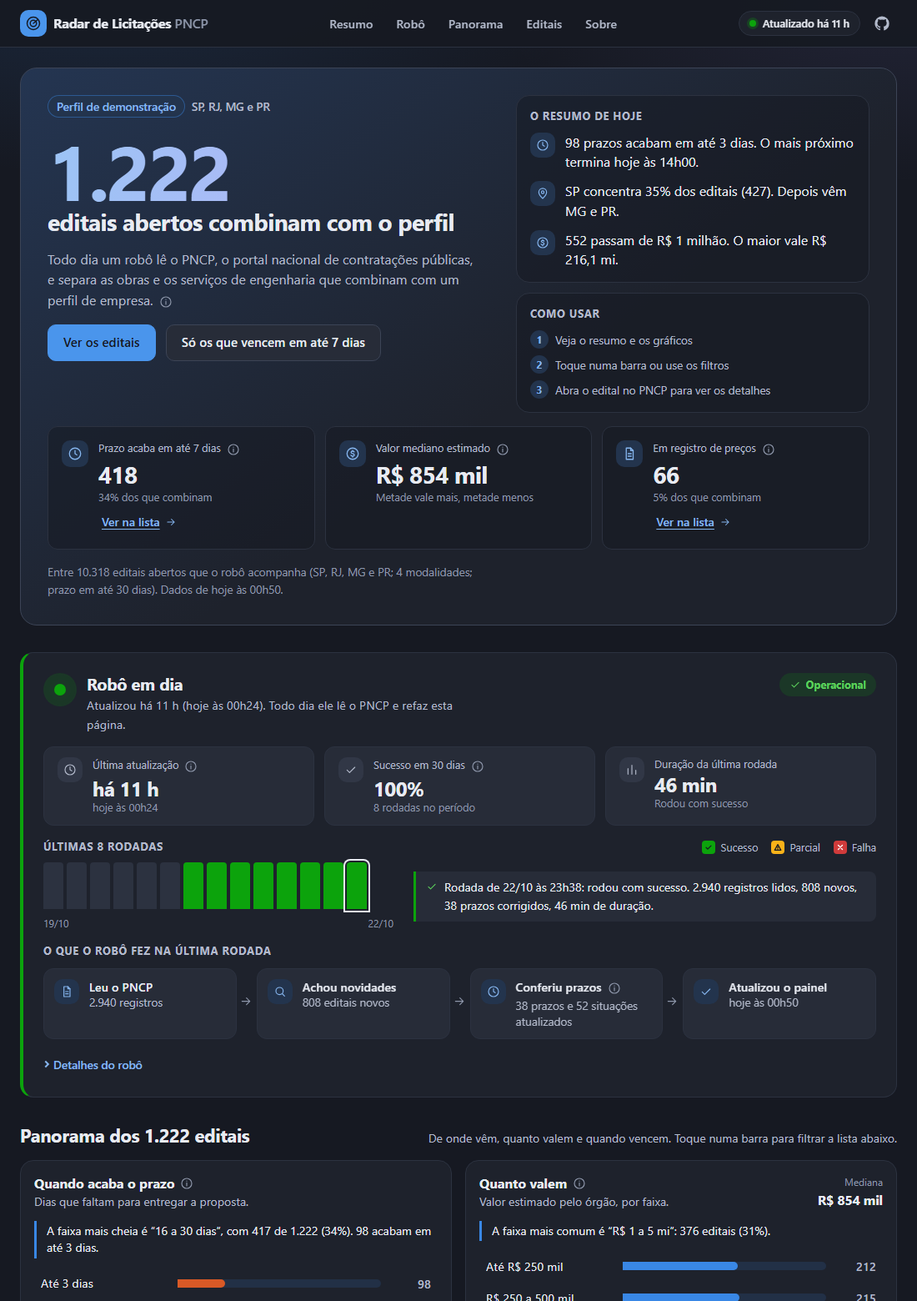
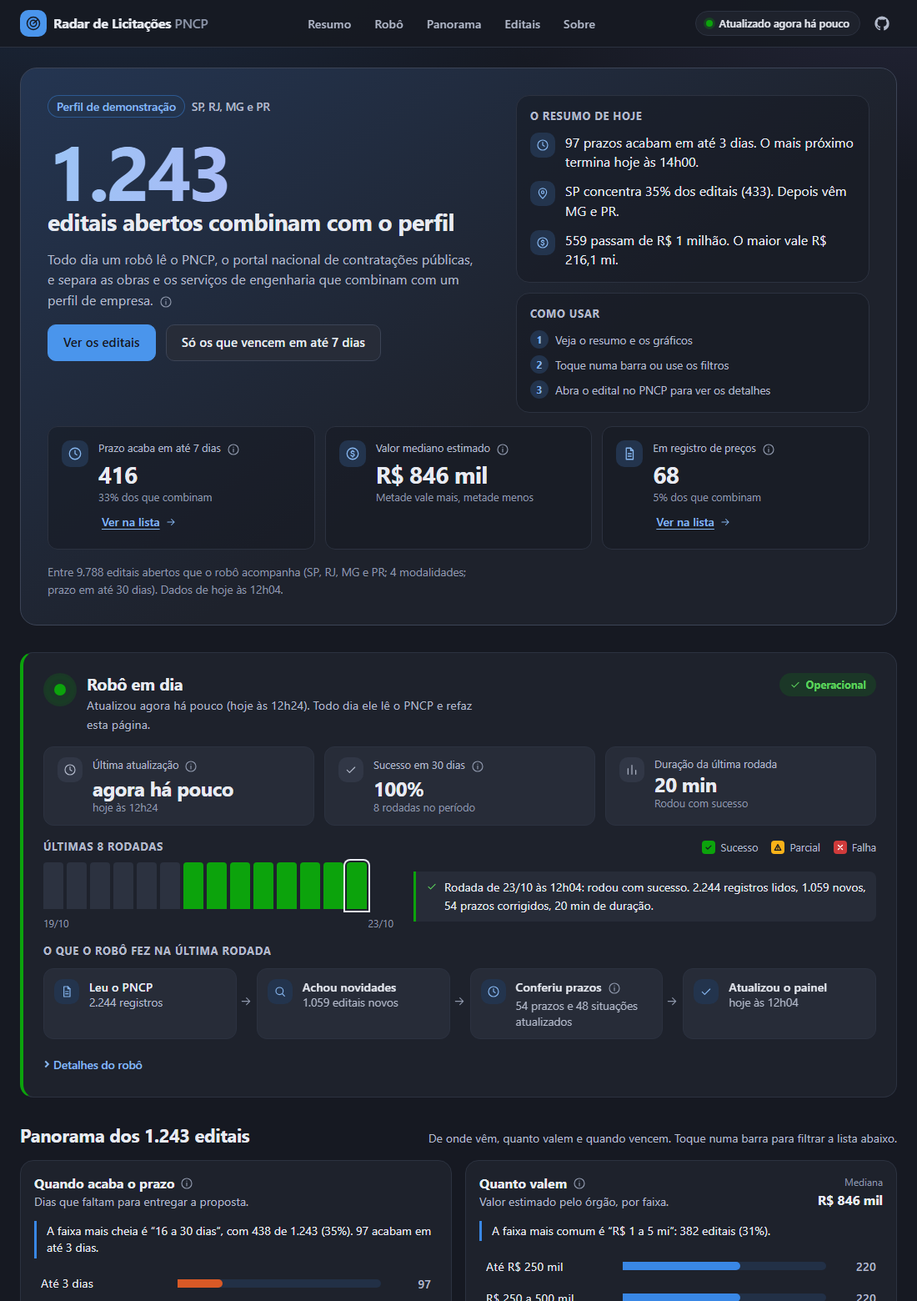
docs: README no molde dos outros projetos, com botão do dashboard e decisões em primeira pessoa
- Topo no padrão do portfólio: print, título com a stack, selos e botão "ABRIR DASHBOARD"
  (GitHub Pages), links de LinkedIn e Portfolio; seções Resumo, O Que Ele Responde, Seções do
  Painel, Preview e rodapé; detalhes técnicos e problemas continuam em seções que abrem
- As decisões e o que foi feito para resolver cada problema passam a estar escritos como do
  autor; sai a frase que atribuía o julgamento da amostra a outra pessoa
- Resultado com os números da rodada de 23/10 (a primeira com a conferência diária):
  2.244 lidos, 1.059 novos, 20 min, 228 chamadas, nenhum 429
- Fluxo completo conferido contra o código: a conferência dos que vencem logo vem antes do
  Telegram; registrar e gerar os arquivos acontece mesmo quando algo falha; a publicação na
  branch data é um passo próprio; a conferência de domingo não manda Telegram; o alerta de
  falha sai depois da publicação
- Fotos novas tiradas da página no ar (resumo, robô, panorama, lista com filtros e celular)

diff --git a/README.md b/README.md
@@ -1,29 +1,59 @@
-# Radar de Licitações PNCP
+<div align="center">
+<img src="./docs/img/painel.png" width="100%" alt="Radar de Licitações PNCP: resumo do dia, painel de status do robô e lista de editais com filtros">
+</div>
 
-> Todo dia, um robô lê as licitações novas do governo, separa as que combinam com o perfil de uma empresa e avisa no Telegram. Os editais também ficam num painel público, com filtros.
+<div align="center">
+
+# 📡 Radar de Licitações PNCP
+
+**Robô agendado que lê o PNCP todo dia, separa as obras e os serviços de engenharia que combinam com o perfil de uma empresa,
+avisa no Telegram e alimenta um painel público com busca e filtros.**
+Python + GitHub Actions + React, sem servidor e a custo zero.
+
+[![Dashboard Online](https://img.shields.io/badge/GitHub%20Pages-ABRIR%20DASHBOARD-3b82f6?style=for-the-badge&logo=githubpages&logoColor=white)](https://victor-ozores.github.io/Radar-PNCP/)
+[![GitHub](https://img.shields.io/badge/GitHub-Repo-181717?style=for-the-badge&logo=github&logoColor=white)](https://github.com/victor-ozores/Radar-PNCP)
+[![License: MIT](https://img.shields.io/badge/License-MIT-94a3b8?style=for-the-badge)](./LICENSE)
 
 [![CI](https://github.com/victor-ozores/Radar-PNCP/actions/workflows/ci.yml/badge.svg)](https://github.com/victor-ozores/Radar-PNCP/actions/workflows/ci.yml)
 [![Pipeline diário](https://github.com/victor-ozores/Radar-PNCP/actions/workflows/daily.yml/badge.svg)](https://github.com/victor-ozores/Radar-PNCP/actions/workflows/daily.yml)
 ![Última execução](https://img.shields.io/endpoint?url=https%3A%2F%2Fraw.githubusercontent.com%2Fvictor-ozores%2FRadar-PNCP%2Fdata%2Fbadge.json)
 ![Custo](https://img.shields.io/badge/custo-R%24%200-brightgreen)
 
-### 👉 [Abrir o painel ao vivo](https://victor-ozores.github.io/Radar-PNCP/)
+[![LinkedIn](https://img.shields.io/badge/LinkedIn-victor--ozores-0A66C2?style=for-the-badge&logo=linkedin&logoColor=white)](https://linkedin.com/in/victor-ozores/)
+[![Portfolio](https://img.shields.io/badge/Portfolio-xperiun-6d28d9?style=for-the-badge&logo=googlechrome&logoColor=white)](https://app.xperiun.com/in/victor-ozores-2)
+[![GitHub](https://img.shields.io/badge/GitHub-victor--ozores-181717?style=for-the-badge&logo=github&logoColor=white)](https://github.com/victor-ozores)
 
-[![Painel do Radar: resumo do dia, painel de status do robô, gráficos e lista de editais com filtros ao lado](docs/img/painel.png)](https://victor-ozores.github.io/Radar-PNCP/)
+</div>
 
-## Para que serve
+---
+
+## 📌 Resumo
 
 O **PNCP** (Portal Nacional de Contratações Públicas) reúne as licitações do país, mas **não avisa ninguém**. Quem monta propostas acaba abrindo vários portais todo dia, ou descobre o edital tarde demais.
 
-O Radar faz essa busca sozinho e entrega:
+O Radar faz essa busca sozinho: um robô agendado lê o PNCP, dá uma nota de 0 a 100 a cada edital, separa os que combinam com o perfil de uma empresa, avisa no Telegram e mantém um painel público com os que ainda estão abertos. Construí o projeto para mostrar, na prática, uma automação agendada de ponta a ponta: roda sozinha todos os dias, sem servidor e sem custo, e **avisa quando para de funcionar**.
 
-* 🆕 **Editais novos que combinam** com o perfil, com nota de 0 a 100 e o motivo da nota;
-* ⏳ **Prazos chegando**: os que ainda dão tempo de montar a proposta;
-* 🔎 **Um painel público** para consultar quando quiser, com busca e filtros.
+**Resultado da execução de 23/10/2026:** 9.788 editais abertos acompanhados em SP, RJ, MG e PR, dos quais 1.317 passaram pelo filtro do perfil (1.243 combinam e 74 combinam só em parte). A rodada leu 2.244 registros do PNCP (1.059 novos) em 20 minutos, conferiu um a um 95 editais com prazo próximo (1 já estava excluído) e não teve nenhum bloqueio da API. Desde 20/10 o robô rodou sozinho 4 vezes (20, 21, 22 e 23/10), todas com sucesso.
 
 > O perfil que vem no projeto é de **demonstração**: uma construtora de médio porte (obras e manutenção predial) em SP, RJ, MG e PR. O painel é um apoio, não uma recomendação: confira sempre o edital no PNCP.
 
-## Como usar
+## 🔗 Ver Dashboard Online
+
+[![GitHub Pages](https://img.shields.io/badge/GitHub%20Pages-ABRIR%20DASHBOARD-3b82f6?style=for-the-badge&logo=githubpages&logoColor=white)](https://victor-ozores.github.io/Radar-PNCP/)
+
+Abre direto, sem login. A página não tem servidor: ela lê o arquivo que o robô grava a cada execução.
+
+---
+
+## 💡 O Que Ele Responde
+
+* Quais editais abertos **combinam com o perfil** e quais olhar primeiro (nota de 0 a 100, com o motivo da nota)?
+* Quais **vencem esta semana** e ainda dão tempo de montar a proposta?
+* **Onde estão** (estado e cidade), **quanto valem** e **em que prazo** vencem?
+* O mesmo edital foi publicado duas vezes? O painel mostra uma vez e indica o outro número.
+* **O robô está funcionando?** O painel mostra há quanto tempo atualizou e como foram as últimas rodadas.
+
+## 🧭 Como Usar
 
 | Quero... | Como |
 |---|---|
@@ -31,7 +61,29 @@ O Radar faz essa busca sozinho e entrega:
 | **Receber o resumo no Telegram** | Faça uma cópia do projeto e crie o seu bot (uns 20 minutos, sem custo): [passo a passo](docs/setup-checklist.md). |
 | **Mudar o que o robô procura** | Edite o [`config.yaml`](config.yaml): estados, modalidades, palavras e faixa de valor. Não precisa mexer em código. |
 
-## O que chega no Telegram
+## 📊 Seções do Painel
+
+| Seção | O que mostra |
+|---|---|
+| **Resumo** | Quantos editais abertos combinam com o perfil, o resumo do dia (prazos, estados e valores, escrito a partir dos próprios dados) e atalhos para os que vencem em até 7 dias |
+| **Robô em dia** | Painel de status do robô: se está em dia, há quanto tempo atualizou, taxa de sucesso, uma barra por rodada (as últimas 14) e o que a última rodada fez |
+| **Panorama** | Quatro gráficos que filtram a lista ao toque: prazo, valor, palavras do perfil e onde estão (estados e cidades) |
+| **Editais abertos** | Lista com busca e filtros (estado, prazo, valor, registro de preços). Cada cartão leva ao edital no PNCP |
+| **Antes de usar** | Os avisos que importam (perfil de demonstração, confira no PNCP) e como o painel é calculado |
+
+## 📸 Preview
+
+<div align="center">
+<img src="./docs/img/painel_robo.png" width="100%" alt="Painel de status do robô: selo Operacional, números, barras das últimas rodadas e o que a última rodada fez">
+<br><br>
+<img src="./docs/img/painel_panorama.png" width="100%" alt="Panorama: gráficos de prazo, valor, palavras e onde estão os editais">
+<br><br>
+<img src="./docs/img/painel_lista.png" width="100%" alt="Lista de editais com os filtros ao lado">
+<br><br>
+<img src="./docs/img/painel_celular.png" width="320" alt="O painel no celular">
+</div>
+
+## 📲 O que chega no Telegram
 
 Exemplo no formato atual, com os dados reais de 22/10/2026 (recortado):
 
@@ -59,11 +111,11 @@ Combina · Contratação de Empresa Especializada para Execução de Serviços d
 
 Como ler: **Combina muito** é nota 80 ou mais, **Combina** vai de 60 a 79 e **Combina em parte** de 40 a 59. Abaixo de 40 o robô não avisa.
 
-## Como funciona
+## ⚙ Como Funciona
 
 ```mermaid
 flowchart LR
-    A["PNCP<br/>licitações do governo"] --> B["Robô diário<br/>lê, limpa e dá nota"]
+    A["PNCP<br/>licitações do governo"] --> B["Robô diário<br/>lê, limpa, dá nota<br/>e confere os prazos"]
     B --> C["Telegram<br/>resumo do dia"]
     B --> D[("Dados<br/>branch data")]
     D --> E["Painel público<br/>GitHub Pages"]
@@ -72,50 +124,52 @@ flowchart LR
 
 1. **Lê** o PNCP todo dia: os editais novos e os que mudaram (prazo prorrogado, suspensão, revogação).
 2. **Dá uma nota** de 0 a 100 a cada um, pelas palavras e pela faixa de valor do `config.yaml`. Não usa IA: são regras que dá para auditar.
-3. **Avisa** no Telegram e **atualiza o painel**.
-4. **Se vigia**: se o robô deixar de rodar, um alerta chega pelo Telegram e outro por e-mail.
+3. **Confere** no PNCP, um a um, os que vencem logo, para não mostrar prazo velho nem edital excluído.
+4. **Avisa** no Telegram e **atualiza o painel**.
+5. **Se vigia**: se o robô deixar de rodar, um alerta chega pelo Telegram e outro por e-mail.
 
 Agendado para 7h17, mas o GitHub tem entregado o horário com algumas horas de atraso (de 3 a 5,5 h); o resumo chega por volta do meio-dia.
 
-## Custa R$ 0 e respeita a LGPD
+## 💰 Custa R$ 0 e Respeita a LGPD
 
 * **Grátis:** GitHub (repositório público), API pública do PNCP, Telegram e Healthchecks.io (plano gratuito). Sem servidor e sem cartão.
 * **Só dados públicos:** a fonte trata de órgãos e contratações, não de pessoas. CPF, e-mail e telefone que apareçam em texto livre são removidos antes de gravar.
 
-## Quer ir mais fundo?
-
 <details>
-<summary><b>🔧 Detalhes técnicos</b> (fluxo completo, confiabilidade, decisões, como rodar)</summary>
+<summary><b>⚙ Detalhes Técnicos</b> (fluxo completo, confiabilidade, decisões, como rodar)</summary>
 
 ### Fluxo completo
 
 ```mermaid
 flowchart TD
-    subgraph dia["Todo dia"]
-        A["Busca no PNCP<br/>novos dos últimos 3 dias<br/>e alterados de hoje e ontem"] --> B["Limpa<br/>só campos permitidos<br/>sem CPF, e-mail e telefone"]
+    subgraph dia["Todo dia (7h17)"]
+        A["Busca no PNCP<br/>novos dos últimos 3 dias<br/>e alterados de hoje e ontem"] --> B["Limpa cada registro<br/>só campos permitidos<br/>sem CPF, e-mail e telefone"]
         B --> C[("Grava em Parquet<br/>1 arquivo por dia")]
         C --> D["Dá nota de 0 a 100<br/>regras do config.yaml"]
-        D --> E["Confere no PNCP, um a um,<br/>os que vencem em até 3 dias"]
-        E --> F["Resumo no Telegram"]
-        F --> G["Gera painel.json e CSVs"]
-        G --> R["Atualiza o status<br/>status.json e selo"]
+        D --> E["Confere no PNCP, um a um,<br/>os que combinam e vencem em até 3 dias"]
+        E --> F["Monta o resumo e confere<br/>os de 'Prazos chegando'"]
+        F --> T["Envia ao Telegram"]
     end
-    subgraph dom["Todo domingo à noite"]
-        S["Conferência semanal<br/>acha editais excluídos<br/>ou com prazo prorrogado"] --> C
+    subgraph dom["Todo domingo (19h47)"]
+        S1["Conferência semanal<br/>relê as propostas abertas<br/>com prazo em até 14 dias<br/>limpa e grava"] --> S2["Confere no PNCP, um a um,<br/>os que o robô guarda como abertos<br/>e a lista não trouxe"]
     end
-    G --> H["Painel no GitHub Pages"]
-    R -.-> I["Vigias<br/>heartbeat a cada 6 h: alerta após 26 h<br/>Healthchecks.io: alerta por e-mail"]
+    T --> G["Registra a execução e gera os arquivos<br/>pipeline_runs, painel.json, CSVs,<br/>status.json e selo"]
+    S2 --> G
+    G --> P["Publica na branch data<br/>git push"]
+    P --> H["Painel no GitHub Pages<br/>lê o painel.json no navegador"]
+    P -.-> I["Vigias<br/>heartbeat a cada 6 h: alerta após 26 h<br/>Healthchecks.io: aviso por e-mail"]
+    P -.->|"se algo falhou"| X["🚨 Alerta de falha no Telegram<br/>com o link da execução"]
 ```
 
 1. **Busca** as contratações publicadas nos últimos 3 dias (cobre fim de semana e agendamento atrasado) para as UFs e modalidades do `config.yaml`, e **também as alteradas** hoje e ontem, mesmo que publicadas meses antes.
 2. **Limpa** cada registro: guarda só os campos de uma lista permitida e remove CPF, e-mail e telefone do texto livre.
 3. **Grava** em Parquet particionado por dia. Rodar duas vezes a mesma janela não muda nenhum byte.
-4. **Pontua** de 0 a 100 com regras do `config.yaml` e guarda o motivo de cada nota.
-5. **Confere no PNCP**, um a um, os editais que combinam e vencem em até 3 dias (até 100 consultas, o que vence primeiro antes) e, antes de listar, os de "Prazos chegando" (até 15 consultas): o excluído ou prorrogado é corrigido e sai da lista.
+4. **Pontua** de 0 a 100 com regras do `config.yaml`; os motivos de cada nota vão para o `editais.csv`.
+5. **Confere no PNCP**, um a um, os editais que combinam e vencem em até 3 dias (até 100 consultas, o que vence primeiro antes) e, antes de listar, os de "Prazos chegando" (até 15 consultas): o excluído ou prorrogado é corrigido e sai da lista. Se o PNCP para de responder, as duas conferências desistem sem marcar nada.
 6. **Avisa** no Telegram: novos relevantes, prazos que vencem em 2 a 7 dias (`alerta.prazo_minimo_dias`) e um aviso se alguma busca falhou.
-7. **Publica** `export/painel.json` (só os abertos que combinam, com prazo em até 30 dias) e os CSVs na branch `data`. A página lê o `painel.json` direto do navegador.
-8. **Registra** a execução em `pipeline_runs`, `status.json` e no selo do README.
-9. **Todo domingo à noite** (19:47, também atrasa) roda a **conferência semanal**: relê as propostas abertas até 14 dias e consulta no PNCP, um a um (até 150), os editais que o robô guarda como abertos e a listagem não trouxe.
+7. **Registra e gera os arquivos**: a execução entra em `pipeline_runs`, e saem o `export/painel.json` (os abertos que combinam, com prazo em até 30 dias), os CSVs, o `status.json` e o selo. Isso acontece mesmo quando alguma etapa falha, para a falha ficar registrada.
+8. **Publica** esses arquivos na branch `data`. A página lê o `painel.json` direto do navegador. Ao fim de uma rotina diária bem-sucedida, o robô avisa o Healthchecks.io.
+9. **Todo domingo à noite** (19:47, também atrasa) roda a **conferência semanal**: relê as propostas abertas até 14 dias e consulta no PNCP, um a um (até 150), os editais que o robô guarda como abertos e a listagem não trouxe. Ela não manda mensagem no Telegram; segue direto para o passo 7.
 
 ### Confiabilidade
 
@@ -129,22 +183,24 @@ flowchart TD
 
 ### Decisões
 
-| Decisão | Por quê |
+| O que decidi | Por quê |
 |---|---|
-| **DuckDB + Parquet**, sem arquivo `.duckdb` | SQL de verdade, custo zero, sem servidor. Parquet determinístico: reexecutar sem mudança não gera blobs novos no git |
-| **Dados na branch `data`**, código na `main` | A `main` fica limpa e a história dos dados pode ser compactada (veja *Limpeza* abaixo) |
+| Usar **DuckDB + Parquet**, sem arquivo `.duckdb` | SQL de verdade, custo zero, sem servidor. Parquet determinístico: reexecutar sem mudança não gera blobs novos no git |
+| Guardar os **dados na branch `data`** e o código na `main` | A `main` fica limpa e a história dos dados pode ser compactada (veja *Limpeza* abaixo) |
 | **Intervalo de 4 s entre chamadas** e espera de 30/60/120 s no 429 | A API devolve 429 (corpo HTML) após ~8 a 10 chamadas rápidas; medido em 19/10/2026 |
-| **Cliente isolado** em `pncp_client.py` | Só ele conhece URL e parâmetros; trocar de endpoint não espalha mudança |
-| **Upsert por `numeroControlePNCP`** | Editais mudam de situação e de prazo depois de publicados |
-| **Lê os alterados e confere no PNCP** | Só a listagem por publicação nunca revê um edital já guardado. Detalhes em [`docs/qualidade-dados-pncp.md`](docs/qualidade-dados-pncp.md) |
-| **Edital repetido: junta, não esconde** | O órgão às vezes publica o mesmo edital duas vezes (mesmo órgão, valor, prazo e texto). Os dois registros existem no PNCP, então o robô os junta num item só (o publicado por último é o principal) e mostra o número e o link do outro. No alerta, cada registro é conferido antes, para o link nunca apontar para um edital excluído |
-| **Nota por regras, explicável** | Cada nota vem com os motivos; dá para calibrar o perfil olhando o `--dry-run`. Regras firmes separam obra de compra, locação e serviço de escritório (consultoria, fiscalização, projeto); os casos reais estão em `tests/fixtures/casos_reais_filtro.json` |
-| **Token do Telegram nunca vaza** | O token vai na URL da API; os logs do `httpx` ficam em WARNING e as mensagens de erro passam por filtro |
-| **Texto da tela em caixa normal** | Só na exibição, igual no Telegram e na página (mesmas regras em Python e TypeScript, com testes dos dois lados). O texto guardado não muda |
+| Isolar o **cliente da API** em `pncp_client.py` | Só ele conhece URL e parâmetros; trocar de endpoint não espalha mudança |
+| Gravar por **upsert** em `numeroControlePNCP` | Editais mudam de situação e de prazo depois de publicados |
+| **Ler os alterados e conferir no PNCP** | Só a listagem por publicação nunca revê um edital já guardado. Detalhes em [`docs/qualidade-dados-pncp.md`](docs/qualidade-dados-pncp.md) |
+| **Juntar o edital repetido**, não esconder | O órgão às vezes publica o mesmo edital duas vezes (mesmo órgão, valor, prazo e texto). Os dois registros existem no PNCP, então o robô os junta num item só (o publicado por último é o principal) e mostra o número e o link do outro. No alerta, cada registro é conferido antes, para o link nunca apontar para um edital excluído |
+| Dar a nota por **regras que se explicam**, sem IA | Cada nota vem com os motivos; dá para calibrar o perfil olhando o `--dry-run`. Regras firmes separam obra de compra, locação e serviço de escritório (consultoria, fiscalização, projeto); os casos reais estão em `tests/fixtures/casos_reais_filtro.json` |
+| Nunca deixar o **token do Telegram** vazar | O token vai na URL da API; os logs do `httpx` ficam em WARNING e as mensagens de erro passam por filtro |
+| Escrever o **texto em caixa normal** só na tela | Igual no Telegram e na página (mesmas regras em Python e TypeScript, com testes dos dois lados). O texto guardado não muda |
+| Fazer o painel como **página própria** (GitHub Pages), e não em Power BI | O Power BI não atualiza sozinho na licença gratuita. A página lê o arquivo que o robô grava e se atualiza sem ninguém abrir nada |
+| Mostrar **um tema só**, escuro e suave | Dois temas custam mais código e mais processamento no navegador; as cores têm contraste e daltonismo conferidos |
 
 ### Limpeza da branch `data` (a cada 6 meses)
 
-Medido em 19 a 22/10/2026: cada execução diária acrescenta de 0,4 a 3 MB comprimidos (o dia de 22/10 mexeu em 53 arquivos por causa das atualizações: 3 MB). Com ~3 MB por dia são ~1,1 GB por ano, acima dos 1 GB que o GitHub recomenda, e quem clona o repositório baixa a história inteira. Por isso a limpeza é **semestral**: ~550 MB no pior caso. Também vale limpar antes se o tamanho passar de ~500 MB (campo `size` da API do repositório). Passo a passo na seção 6 do [`docs/setup-checklist.md`](docs/setup-checklist.md).
+Medido em 19 a 22/10/2026: cada execução diária acrescenta de 0,4 a 3 MB comprimidos (o dia de 22/10 mexeu em 53 arquivos por causa das atualizações: 3 MB). Com ~3 MB por dia são ~1,1 GB por ano, acima dos 1 GB que o GitHub recomenda, e quem clona o repositório baixa a história inteira. Por isso decidi fazer a limpeza **a cada 6 meses**: ~550 MB no pior caso. Também vale limpar antes se o tamanho passar de ~500 MB (campo `size` da API do repositório). Passo a passo na seção 6 do [`docs/setup-checklist.md`](docs/setup-checklist.md).
 
 ### Stack
 
@@ -215,25 +271,25 @@ Há exemplos em [`queries/`](queries): editais abertos, volume por UF, qualidade
 * O "resumo de hoje" e a frase de cada gráfico saem dos próprios dados, não de texto fixo: se os números mudam, a frase muda junto (`site/src/lib/historia.ts`, com testes).
 * Os termos técnicos têm um **?** com a explicação. Abre com o mouse, com o teclado (Tab) ou com o toque; Esc ou um novo toque fecha.
 * Os filtros ficam numa coluna ao lado da lista e acompanham a rolagem no computador; no celular ficam atrás do botão "Filtrar".
-* A página tem um tema só, escuro e suave, sem botão para trocar (cores conferidas para contraste e daltonismo). As animações respeitam a opção "reduzir movimento" do sistema.
+* A página tem um tema só, escuro e suave, sem botão para trocar. As animações respeitam a opção "reduzir movimento" do sistema.
 
 ### Indicadores e números medidos
 
 Cada execução vira uma linha em `pipeline_runs`: início, fim, duração, status (`success`, `partial`, `failed`), janela, buscas e falhas, chamadas à API, 429, linhas lidas/novas/atualizadas/inválidas, prazos e situações corrigidos, relevantes novos, avisos de qualidade, alerta enviado e erro.
 
-Até 22/10/2026 o robô rodou sozinho 3 vezes (20, 21 e 22/10), todas com sucesso. A de 22/10: 14 min, 129 chamadas à API, nenhum bloqueio 429, 2.143 editais lidos e 812 novos. **Horas economizadas** seguem como estimativa, com premissas ainda não validadas, em [`docs/metodologia-horas.md`](docs/metodologia-horas.md).
+Até 23/10/2026 o robô rodou sozinho 4 vezes (20, 21, 22 e 23/10), todas com sucesso. A de 23/10, a primeira com a conferência diária dos que vencem logo: 20 min, 228 chamadas à API, nenhum bloqueio 429, 2.244 editais lidos e 1.059 novos. A de 22/10 levou 14 min, com 129 chamadas. **Horas economizadas** seguem como estimativa, com premissas ainda não validadas, em [`docs/metodologia-horas.md`](docs/metodologia-horas.md).
 
 </details>
 
 <details>
-<summary><b>⚠ Problemas que tivemos e limitações</b></summary>
+<summary><b>⚠ Problemas que Apareceram e Limitações</b></summary>
 
-### O que deu errado no caminho e o que foi feito
+### O que deu errado no caminho e o que fiz
 
-| O que aconteceu | O que foi feito |
+| O que aconteceu | O que fiz |
 |---|---|
 | A API do PNCP bloqueia (erro 429) quem consulta rápido | Pausa de 4 s entre as chamadas e espera de 30, 60 e 120 s quando bloqueia. Desde então, nenhum bloqueio |
-| O GitHub atrasa o horário agendado em algumas horas (medido de 3 h 09 a 5 h 25) | Aceito. O vigia externo tem 7 h de folga para não dar alarme falso |
+| O GitHub atrasa o horário agendado em algumas horas (medido de 3 h 09 a 5 h 25) | Aceitei o atraso. O vigia externo tem 7 h de folga para não dar alarme falso |
 | Prazos prorrogados (cerca de 1% dos editais que vencem em 7 dias) não apareciam | O robô lê também os editais alterados e, aos domingos, confere um a um no PNCP os que a listagem não confirma |
 | Edital **excluído** do PNCP continuava no robô (2 de 837 em 22/10), e a lista de propostas do PNCP demora horas para mostrar uma exclusão ou prorrogação | Só a consulta individual vale. O robô a faz todo dia (os que combinam e vencem em até 3 dias), antes de cada alerta e todo domingo (até 14 dias): marca como "Excluída do PNCP" e tira das listas |
 | O mesmo edital aparecia duas vezes (o órgão republica com outro número; cerca de 3% dos que combinam) | O painel e o Telegram mostram uma vez, com o número e o link do outro registro |
@@ -241,13 +297,12 @@ Até 22/10/2026 o robô rodou sozinho 3 vezes (20, 21 e 22/10), todas com sucess
 | Consultoria, fiscalização e projeto apareciam como obra (2,6% dos relevantes) | Regra de "serviço de escritório": nota zero, a menos que o texto peça também a execução |
 | Valores simbólicos (R$ 0,04) | Abaixo de R$ 1 mil aparece "valor não informado" |
 | Textos em CAIXA ALTA e nomes de cidade sem acento | Só na tela e no Telegram: caixa normal e a cidade como o edital a traz. O original continua no PNCP |
-| O Power BI não atualiza sozinho na licença gratuita | Trocado por uma página no GitHub Pages |
 | O histórico dos dados cresce de 0,4 a 3 MB por dia | Limpeza da branch `data` a cada 6 meses |
 
 ### Limitações conhecidas
 
 * O perfil é de demonstração; os termos ainda não foram calibrados com uma pessoa de orçamentos.
-* A nota olha só o texto do objeto e o valor, não entende o sentido. Numa amostra de 40 editais relevantes (21/10/2026), 39 estavam claramente certos e 1 era duvidoso; o julgamento foi do Claude, ainda não revisado por quem faz orçamentos. A faixa de nota 40 a 59 é mais ruidosa.
+* A nota olha só o texto do objeto e o valor, não entende o sentido. Numa amostra de 40 editais relevantes (21/10/2026), 39 estavam claramente certos e 1 era duvidoso; essa conferência ainda não foi revisada por quem faz orçamentos. A faixa de nota 40 a 59 é mais ruidosa.
 * O robô só vê as UFs e modalidades do `config.yaml` (hoje SP, RJ, MG e PR; concorrência e pregão). Dispensas de licitação ficam de fora até o volume ser medido. O estado é o do órgão, que pode não ser o local da obra.
 * Obras abaixo de R$ 100 mil e acima de R$ 20 mi ficam fora, por desenho do perfil. Assuntos cujas palavras aparecem também fora de obra ("ponte", "drenagem", "esgotamento sanitário") foram testados e rejeitados por trazer lixo.
 * "Fornecimento e instalação de..." conta como serviço, mas pode ser equipamento. Um serviço sem relação pode passar quando o nome da secretaria traz "Obras" ou "Engenharia" no meio do texto.
@@ -257,10 +312,16 @@ Até 22/10/2026 o robô rodou sozinho 3 vezes (20, 21 e 22/10), todas com sucess
 
 </details>
 
-## Como foi feito
+## 🛠 Como Foi Feito
 
-Construído com o **Claude Code**. O autor (Victor) definiu o problema, o público, as restrições (custo zero, repositório público, LGPD, Windows) e o perfil de interesse, e revisa o que é publicado. O Claude Code propôs a arquitetura, escreveu o código e os testes e validou o comportamento da API com chamadas reais, registrado em [`docs/qualidade-dados-pncp.md`](docs/qualidade-dados-pncp.md). A nota dos editais **não usa IA**.
+Projeto meu, de ponta a ponta. Defini o problema, o público, as restrições (custo zero, repositório público, LGPD, Windows), o perfil de interesse, as regras de nota e cada decisão da tabela acima, e revisei e aprovei tudo o que foi publicado. Usei o Claude Code como ferramenta de programação. O comportamento da API foi conferido com chamadas reais, registradas em [`docs/qualidade-dados-pncp.md`](docs/qualidade-dados-pncp.md). A nota dos editais **não usa IA**.
 
-## Licença
+---
 
-[MIT](LICENSE). Autor: Victor Amorim Ozores.
+<div align="center">
+
+Feito por **Victor Ozores** · [GitHub](https://github.com/victor-ozores) · [LinkedIn](https://linkedin.com/in/victor-ozores/)
+
+[MIT](LICENSE) · Autor: Victor Amorim Ozores
+
+</div>
